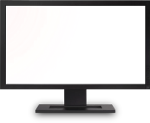
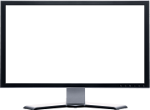
overlay update

Changed region(s): [[0.0, 0.0, 1.0, 1.0]]

diff --git a/public/stylesheets/screen.css b/public/stylesheets/screen.css
@@ -119,35 +119,37 @@ ul.features {
 
 div.fancy-monitor, div.fancy-tablet {
   clear: both;
-  width: 150px;
   position: relative;
   float: right;
   margin: 0.5em 0 1em 2em; }
   div.fancy-monitor div.overlay, div.fancy-tablet div.overlay {
     position: absolute;
     top: 0;
-    left: 0;
-    width: 150px; }
+    left: 0; }
 
 div.fancy-monitor {
-  height: 123px; }
+  height: 110px;
+  width: 150px; }
   div.fancy-monitor div.overlay {
-    height: 123px;
-    background: transparent url("../images/overlay/monitor_150.png"); }
+    height: 110px;
+    width: 150px;
+    background: transparent url("../images/overlay/monitor_150.png") left top no-repeat; }
   div.fancy-monitor img {
-    margin: 6px 0px 0px 7px;
+    margin: 6px 0px 0px 6px;
     width: 138px;
     height: 78px; }
 
 div.fancy-tablet {
-  height: 110px; }
+  height: 130px;
+  width: 82px; }
   div.fancy-tablet div.overlay {
-    height: 110px;
-    background: transparent url("../images/overlay/tablet_150.png"); }
+    height: 130px;
+    width: 82px;
+    background: transparent url("../images/overlay/tablet_150.png") left top no-repeat; }
   div.fancy-tablet img {
-    margin: 14px 0px 0px 13px;
-    width: 125px;
-    height: 79px; }
+    margin: 13px 0px 0px 11px;
+    width: 60px;
+    height: 105px; }
 
 p.reliability {
   background: transparent url(../images/icons/32/clock.png) 0 center no-repeat;

diff --git a/public/stylesheets/sass/screen.sass b/public/stylesheets/sass/screen.sass
@@ -124,7 +124,6 @@ ul.features
 
 div.fancy-monitor, div.fancy-tablet
   clear: both
-  width: 150px
   position: relative
   float: right
   margin: 0.5em 0 1em 2em
@@ -132,27 +131,30 @@ div.fancy-monitor, div.fancy-tablet
     position: absolute
     top: 0
     left: 0
-    width: 150px
 
 div.fancy-monitor
-  height: 123px
+  height: 110px
+  width: 150px
   div.overlay
-    height: 123px
-    background: transparent url('../images/overlay/monitor_150.png')
+    height: 110px
+    width: 150px
+    background: transparent url('../images/overlay/monitor_150.png') left top no-repeat
   img
-    margin: 6px 0px 0px 7px
+    margin: 6px 0px 0px 6px
     width: 138px
     height: 78px
 
 div.fancy-tablet
-  height: 110px
+  height: 130px
+  width: 82px
   div.overlay
-    height: 110px
-    background: transparent url('../images/overlay/tablet_150.png')
+    height: 130px
+    width: 82px
+    background: transparent url('../images/overlay/tablet_150.png') left top no-repeat
   img
-    margin: 14px 0px 0px 13px
-    width: 125px
-    height: 79px
+    margin: 13px 0px 0px 11px
+    width: 60px
+    height: 105px
       
 p.reliability
   background: transparent url(../images/icons/32/clock.png) 0 center no-repeat
